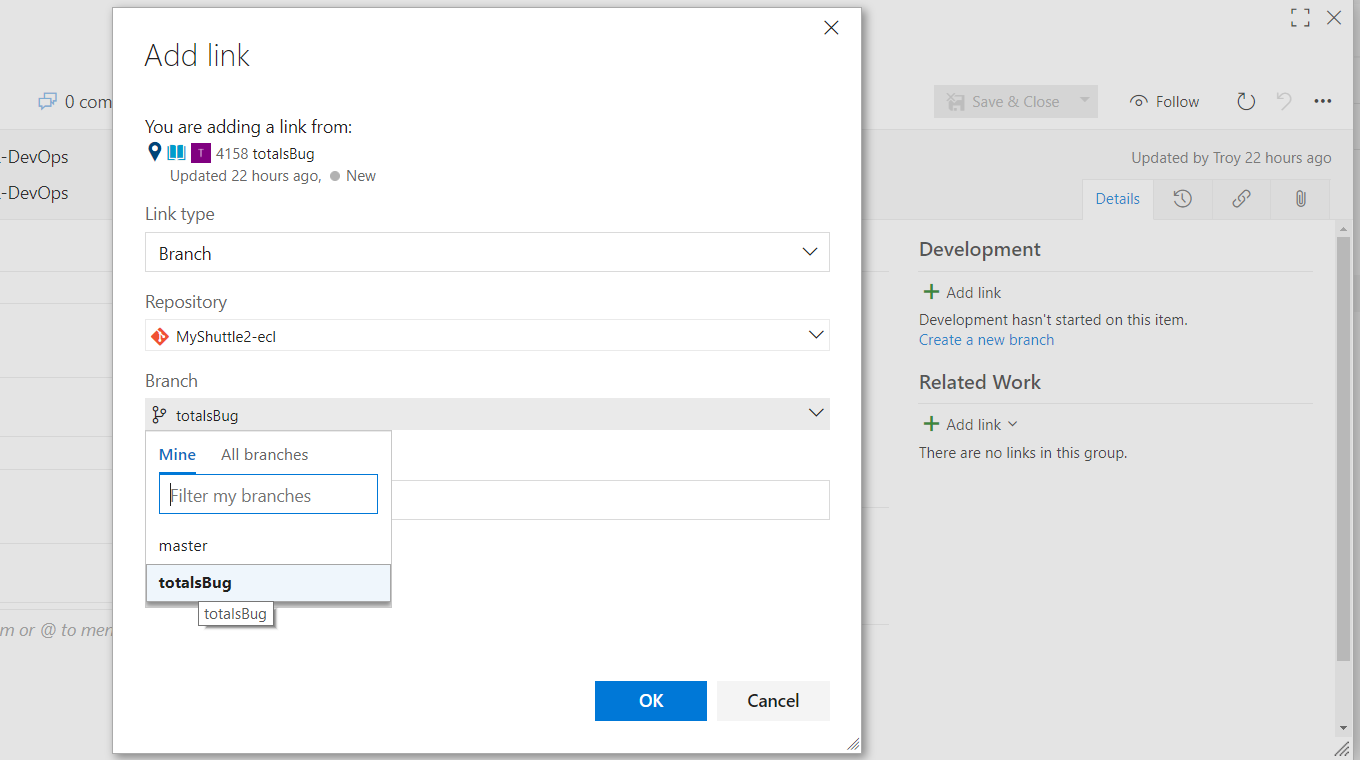
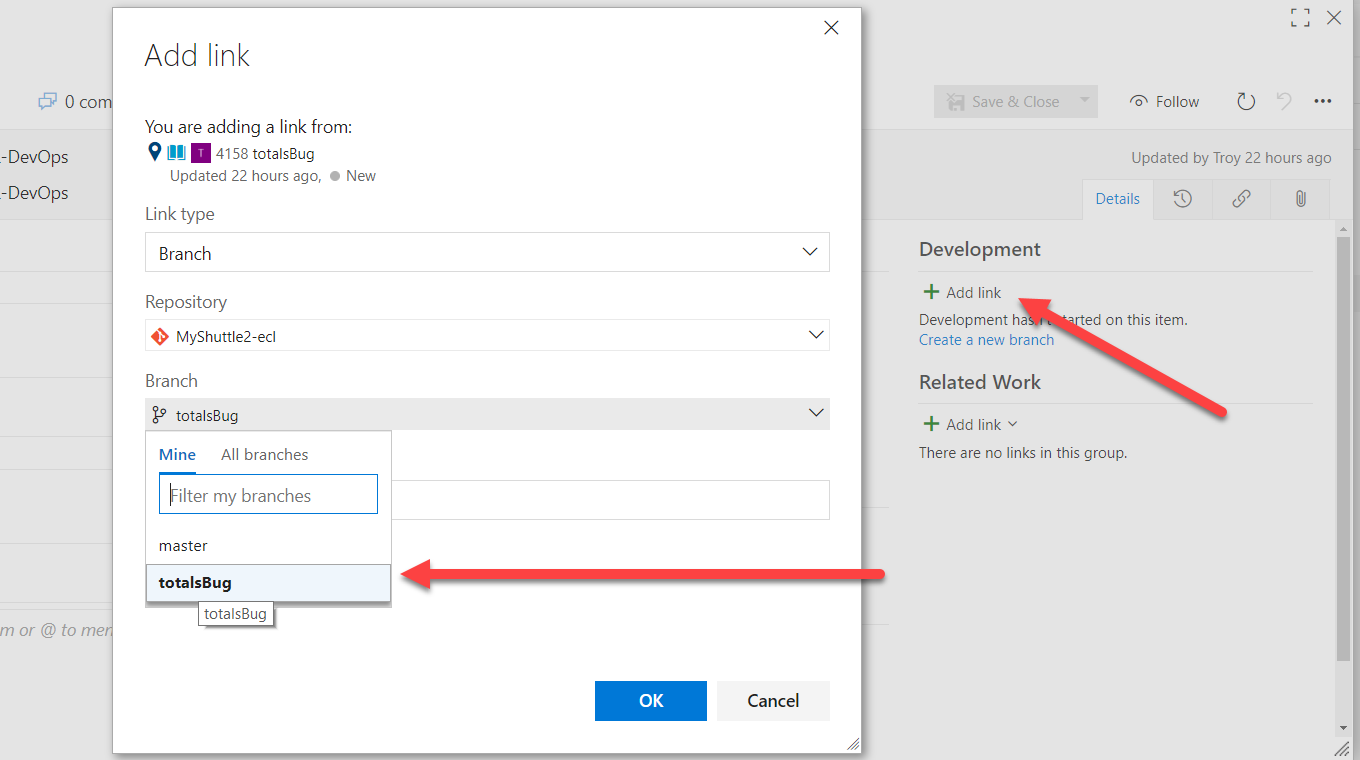
Fixed LinkBranch screenshot

Changed region(s): [[0.2779, 0.7263, 0.6485, 0.7868], [0.7412, 0.3934, 0.8956, 0.5447]]

diff --git a/labs/End to End Workflow-Eclipse.md b/labs/End to End Workflow-Eclipse.md
@@ -125,7 +125,7 @@ In this task you will create a branch of the code to fix the Bug. You will then 
 
 1. Add a link to the work item and selected the newly created branch.
 
-    ![Link the new branch to the work item](images/e2e-eclipse/backlog.png "Link the new branch to the work item")
+    ![Link the new branch to the work item](images/e2e-eclipse/linkbranch.png "Link the new branch to the work item")
 
 1. In the project view, browse to src/main/java/com.microsoft.example.servlet and open the LoginServlet class.
 
